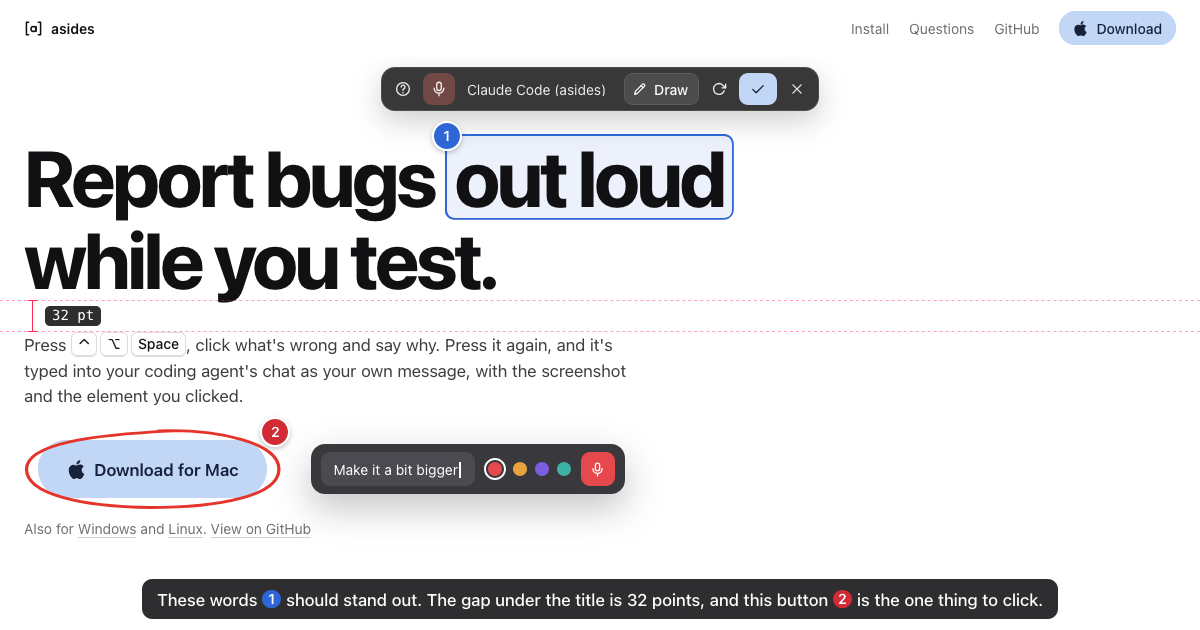
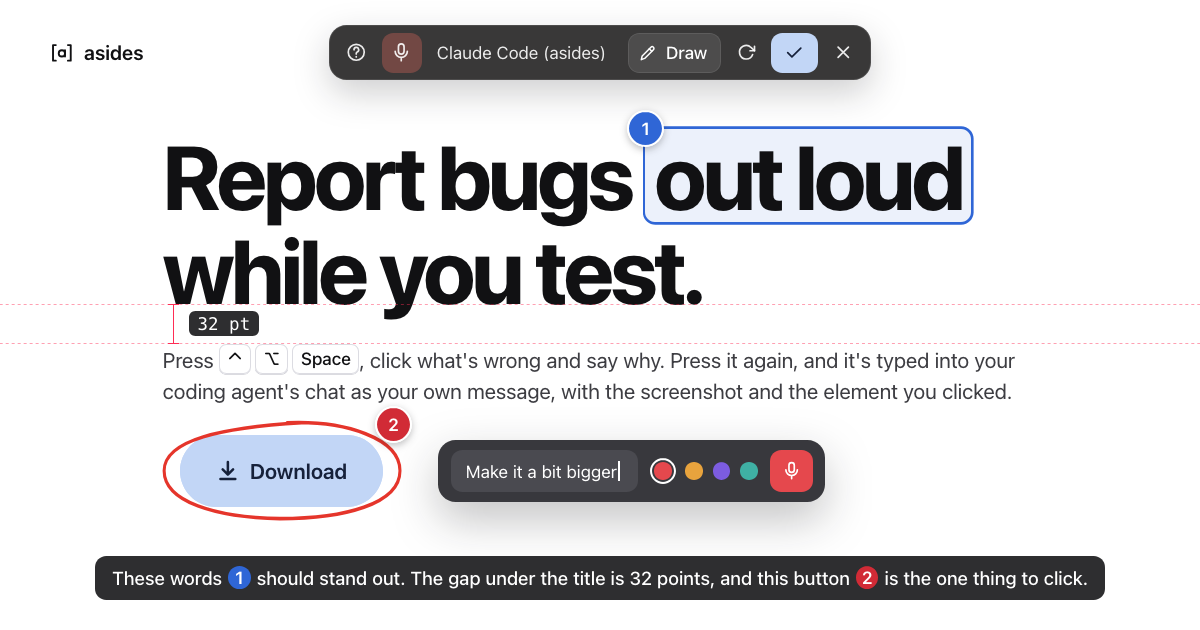
Lay the share image out for sharing
It was the page's first screen as it ends, at 1200 × 630: the header's links, the heading pushed to
the left with half the image empty, and asides' pill and card too small to read once the image is
shown small. It's still docs/index.html with JavaScript off, so it can't drift from the hero, but
without the links and the rest of the page, the hero's block in the middle, zoomed 1.25× (Firefox's
headless screenshots ignore a scale in its preferences), and its button a plain Download, for every
system.

og:image gets its size and a description, and `?v=2`: link previews keep an image by its address.

diff --git a/docs/index.html b/docs/index.html
@@ -13,7 +13,10 @@
 <meta property="og:url" content="https://asides.mihaicristian.dev/">
 <meta property="og:title" content="asides">
 <meta property="og:description" content="Report bugs out loud while you test. Click what's wrong, say why, and it's in your coding agent's chat. Transcribed on your computer.">
-<meta property="og:image" content="https://asides.mihaicristian.dev/og.png">
+<meta property="og:image" content="https://asides.mihaicristian.dev/og.png?v=2">
+<meta property="og:image:width" content="1200">
+<meta property="og:image:height" content="630">
+<meta property="og:image:alt" content="Report bugs out loud while you test: the asides pill over the heading, a pin on its words, a measurement under it, the download button circled and a card reading Make it a bit bigger.">
 <meta name="twitter:card" content="summary_large_image">
 <script>document.documentElement.classList.add('js'); if (matchMedia('(prefers-reduced-motion: no-preference)').matches) document.documentElement.classList.add('plays');</script>
 <style>

diff --git a/scripts/make-og.py b/scripts/make-og.py
@@ -1,6 +1,8 @@
-"""Renders docs/og.png, the 1200 × 630 image shown when the website's link is shared: the page's
-opening as it ends, asides open over the heading. The page shows that frame without JavaScript, so
-this is docs/index.html itself, in a window the image's size, with JavaScript off. It needs Firefox.
+"""Renders docs/og.png, the 1200 × 630 image shown when the website's link is shared: the page's hero
+as its opening ends, asides open over the heading. It's docs/index.html itself, with JavaScript off
+(which shows that frame), the rest of the page left out and the hero fitted to the image (STYLE),
+zoomed 1.25× so that what asides shows stays legible when the image is shown small. It needs
+Firefox (its headless screenshots ignore a scale set in its preferences).
 
 Usage: python3 scripts/make-og.py
 """
@@ -16,14 +18,43 @@ DOCS = ROOT / "docs"
 FIREFOX = os.environ.get("FIREFOX", "/Applications/Firefox.app/Contents/MacOS/firefox")
 WIDTH, HEIGHT = 1200, 630
 
+# In CSS pixels of the page zoomed 1.25×, 960 × 504. The mark goes beside the pill, where the header's
+# links were; the heading, the text under it and the button are one block, in the middle.
+STYLE = """
+<style>
+html { zoom: 1.25; }
+html, body { height: 504px; overflow: hidden; }
+.top-bar { position: absolute; inset: 0 0 auto; background: none; -webkit-backdrop-filter: none; backdrop-filter: none; }
+.top { max-width: none; height: 84px; padding: 0 40px; font-size: 16px; }
+.top nav, .also, .flow, .section, .last, .foot { display: none; }
+.page { max-width: none; padding: 0 40px; }
+.hero { height: 504px; min-height: 0; padding: 20px 0 24px; }
+.tool { margin-bottom: 0; }
+:root { --text-display: 72px; }
+.hero-main { width: 700px; margin-inline: auto; }
+.lede { max-width: none; }
+.cta { margin-top: 22px; }
+.say { margin-top: 0; font-size: 15px; white-space: nowrap; }
+</style>
+"""
+
+page = (DOCS / "index.html").read_text()
+# For every system: the download as it's shown where the page can't tell which.
+mac = '<use href="#for-mac"></use></svg><span data-download-label>Download for Mac</span>'
+assert mac in page
+page = page.replace(mac, '<use href="#for-any"></use></svg><span data-download-label>Download</span>')
+page = page.replace("<head>", f'<head>\n<base href="{DOCS.as_uri()}/">', 1).replace("</head>", f"{STYLE}</head>", 1)
+
 with tempfile.TemporaryDirectory() as tmp:
     tmp = pathlib.Path(tmp)
+    (tmp / "og.html").write_text(page)
     (tmp / "profile").mkdir()
     (tmp / "profile" / "user.js").write_text('user_pref("javascript.enabled", false);\n')
     shot = tmp / "og.png"
     subprocess.run(
         [FIREFOX, "--headless", "--no-remote", "--profile", str(tmp / "profile"),
-         f"--window-size={WIDTH},{HEIGHT}", "--screenshot", str(shot), (DOCS / "index.html").as_uri()],
+         f"--window-size={WIDTH},{HEIGHT}", "--screenshot", str(shot),
+         (tmp / "og.html").as_uri()],
         check=True, capture_output=True,
     )
     shutil.copy(shot, DOCS / "og.png")

diff --git a/AGENTS.md b/AGENTS.md
@@ -37,7 +37,7 @@ A Rust workspace:
 | Speech tests | `make test-speech` (needs the model; also downloads 190 MB) |
 | Install | `make install` |
 | Test fixtures | `make fixtures` (needs the macOS voice "Ioana") |
-| Share image | `python3 scripts/make-og.py` (renders `docs/og.png`, the website's opening as it ends; needs Firefox) |
+| Share image | `python3 scripts/make-og.py` (renders `docs/og.png`, the website's hero as its opening ends; needs Firefox) |
 | README picture | `python3 scripts/make-screenshot.py` (the real overlay on the demo, `guide/overlay.png` and the website's `docs/overlay-*.webp`; shows a window for a few seconds) |
 | Help clips | `python3 scripts/make-help.py` (the real overlay on the demo, `crates/asides-overlay/help/`; shows a window for a few seconds per clip; on Windows, Windows' clips in `help-windows/`) |
 | App icon | `swift scripts/make-icon.swift` (writes `packaging/asides.icns` and `asides.ico`) |
@@ -184,6 +184,7 @@ paths), run `asides show` (the newest) or `asides history`, or use `asides mcp`'
 - Chromium runs on the main thread, where the opening's pill stalled, an animation with an end delay
   or changing what another on its element changes: the opening has neither (`settle`). A dash
   pattern only as long as its path drew the next dash's round cap at its end (a dot): gap longer.
+- Firefox's headless `--screenshot` ignores `layout.css.devPixelsPerPx`: `make-og.py` uses CSS `zoom`.
 - Headless Firefox screenshots mid-transition: turn transitions off. On the website, a `padding`
   shorthand on `.wrap` in a media query reset the sections' top padding: set `padding-inline`.
 

diff --git a/CONTRIBUTING.md b/CONTRIBUTING.md
@@ -308,8 +308,9 @@ installed by hand.
 `make publish-site` deploys by hand. Its opening is the page itself with asides open over it: the
 script at its end plays each step at its word, and without motion or JavaScript shows the last frame.
 Its pictures are parts of `guide/overlay.png`. Text sizes come from the `--text-*` values on
-`:root`: don't add another. The share image is the opening's last frame: after changing the
-opening, run `python3 scripts/make-og.py` (needs Firefox).
+`:root`: don't add another. The share image is the opening's last frame, the hero alone
+(`make-og.py`'s `STYLE`): after changing the opening, run `python3 scripts/make-og.py` (needs
+Firefox) and bump `og.png?v=` in `og:image`, which link previews cache.
 
 The checkout desktop in the pictures is `scripts/demo-desktop/index.html`, not served. After
 changing it, or the overlay's look, run `python3 scripts/make-screenshot.py` (the README's picture
